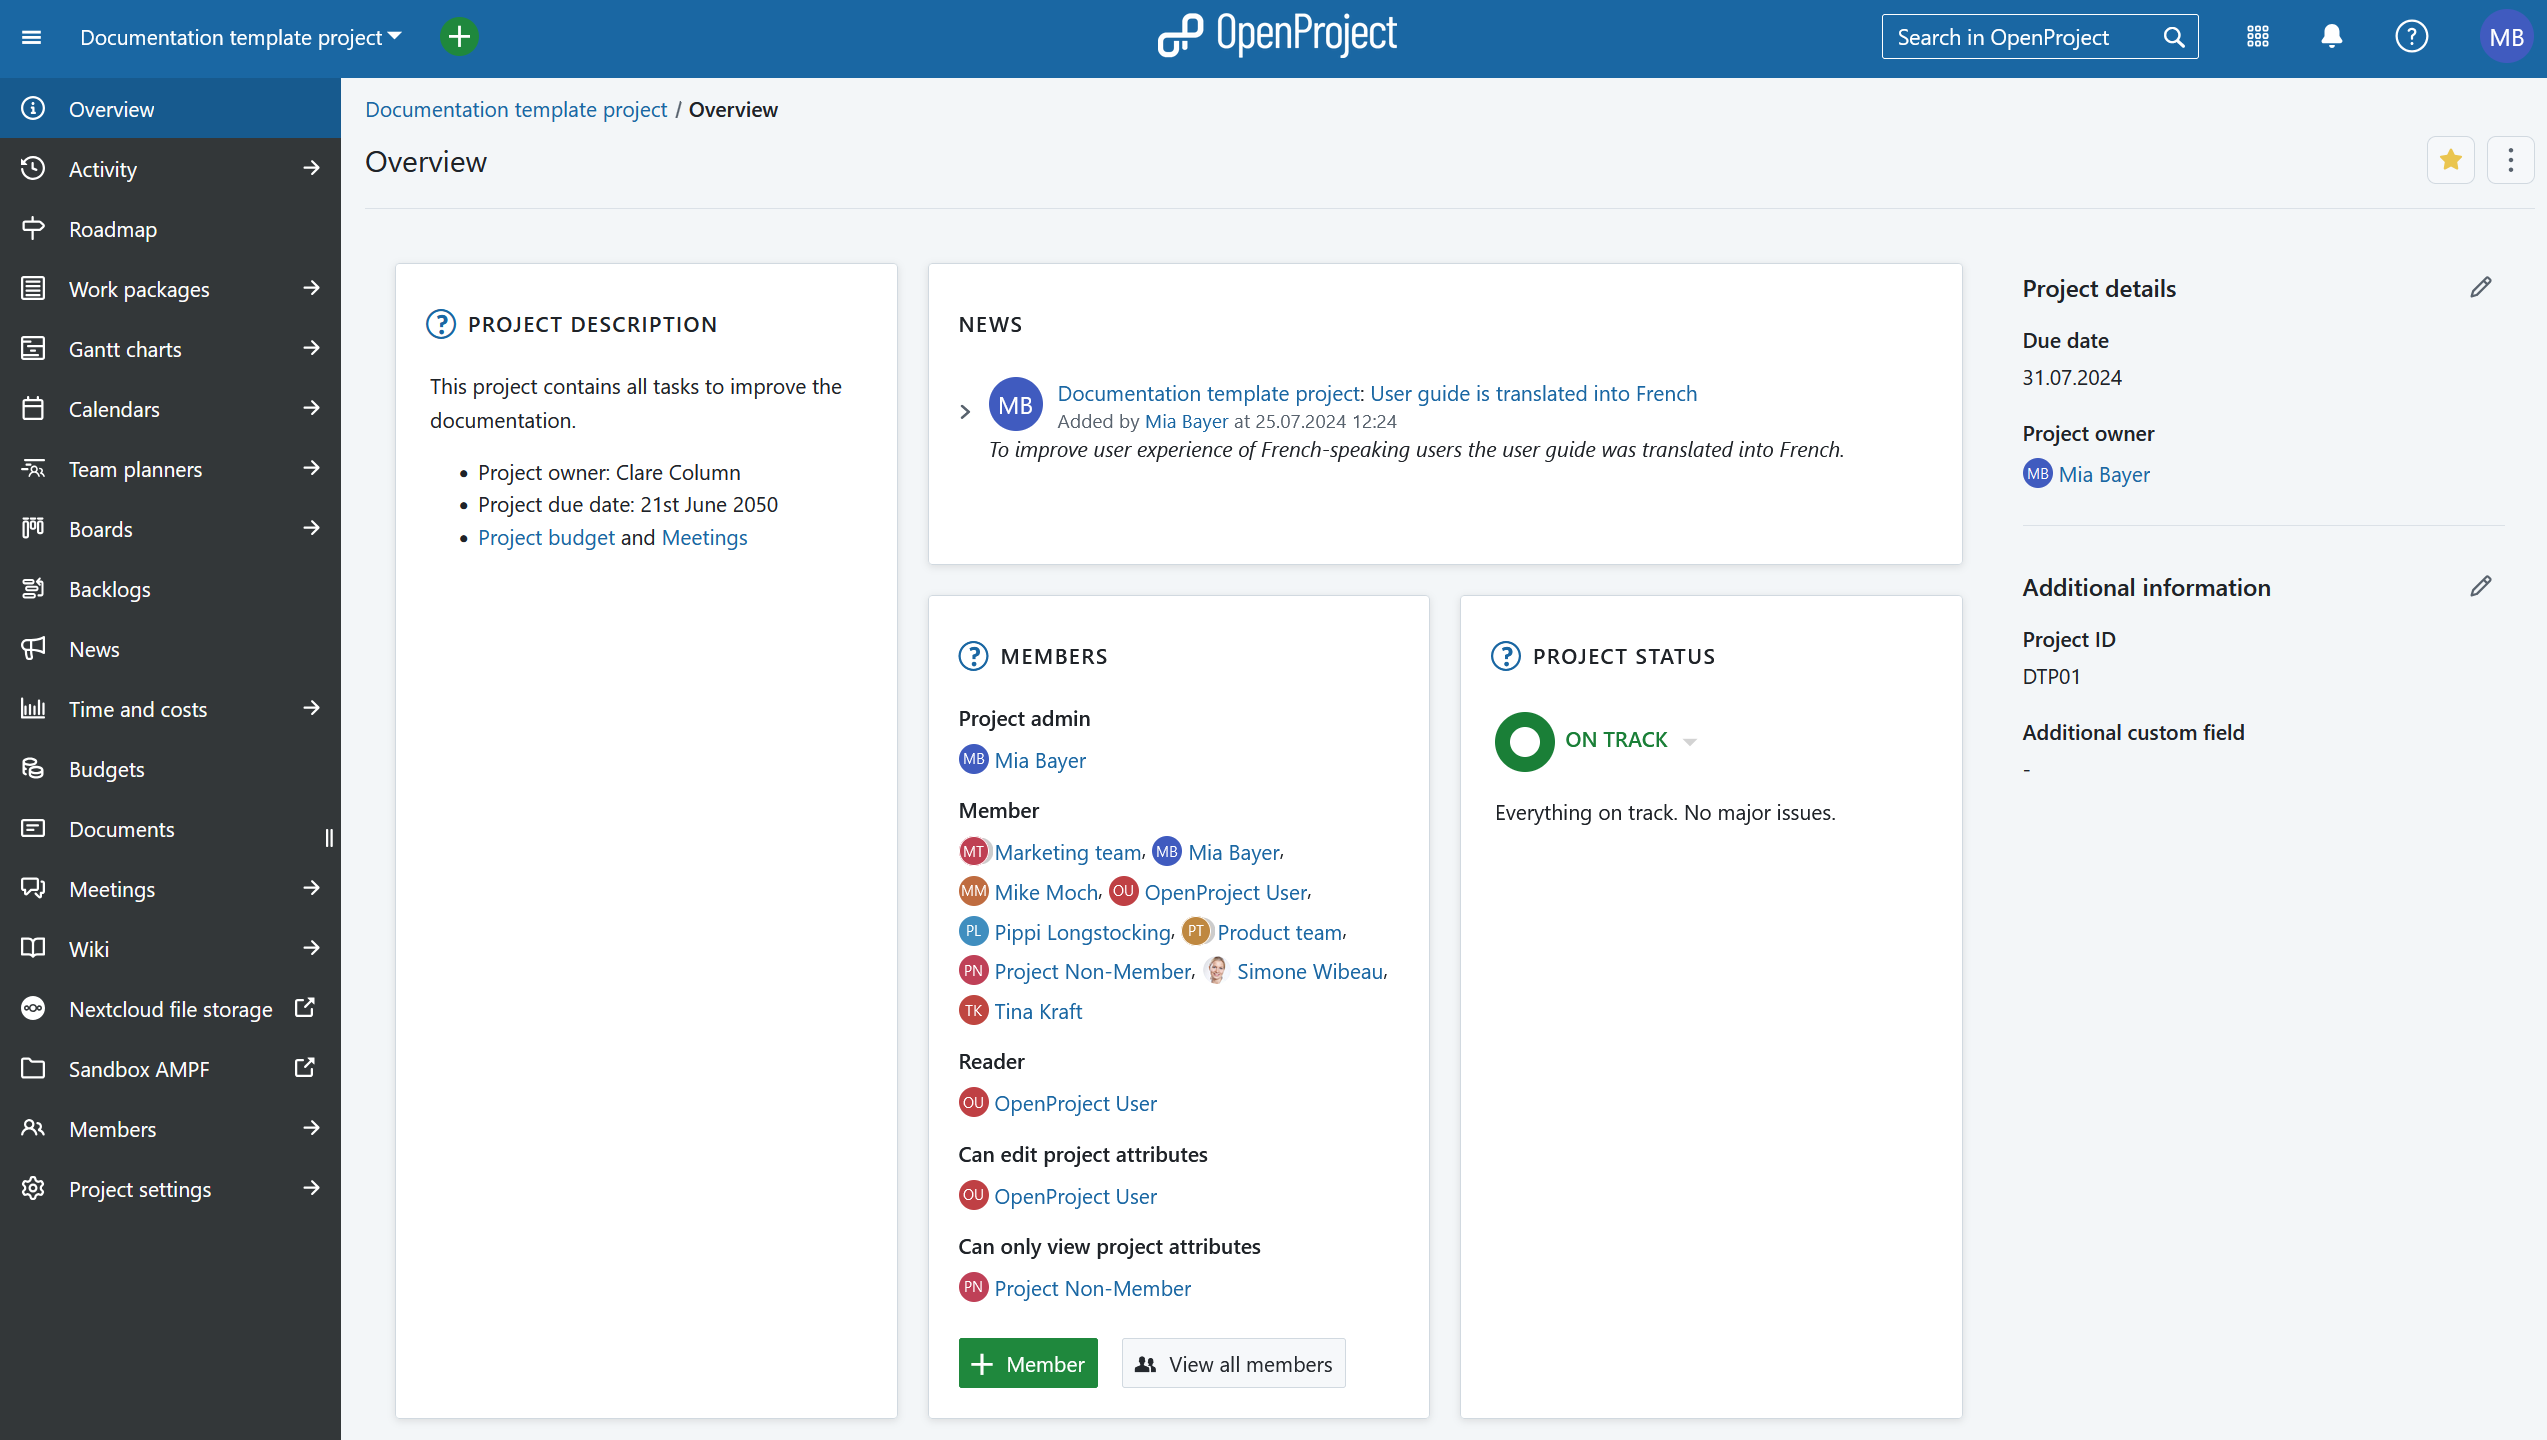
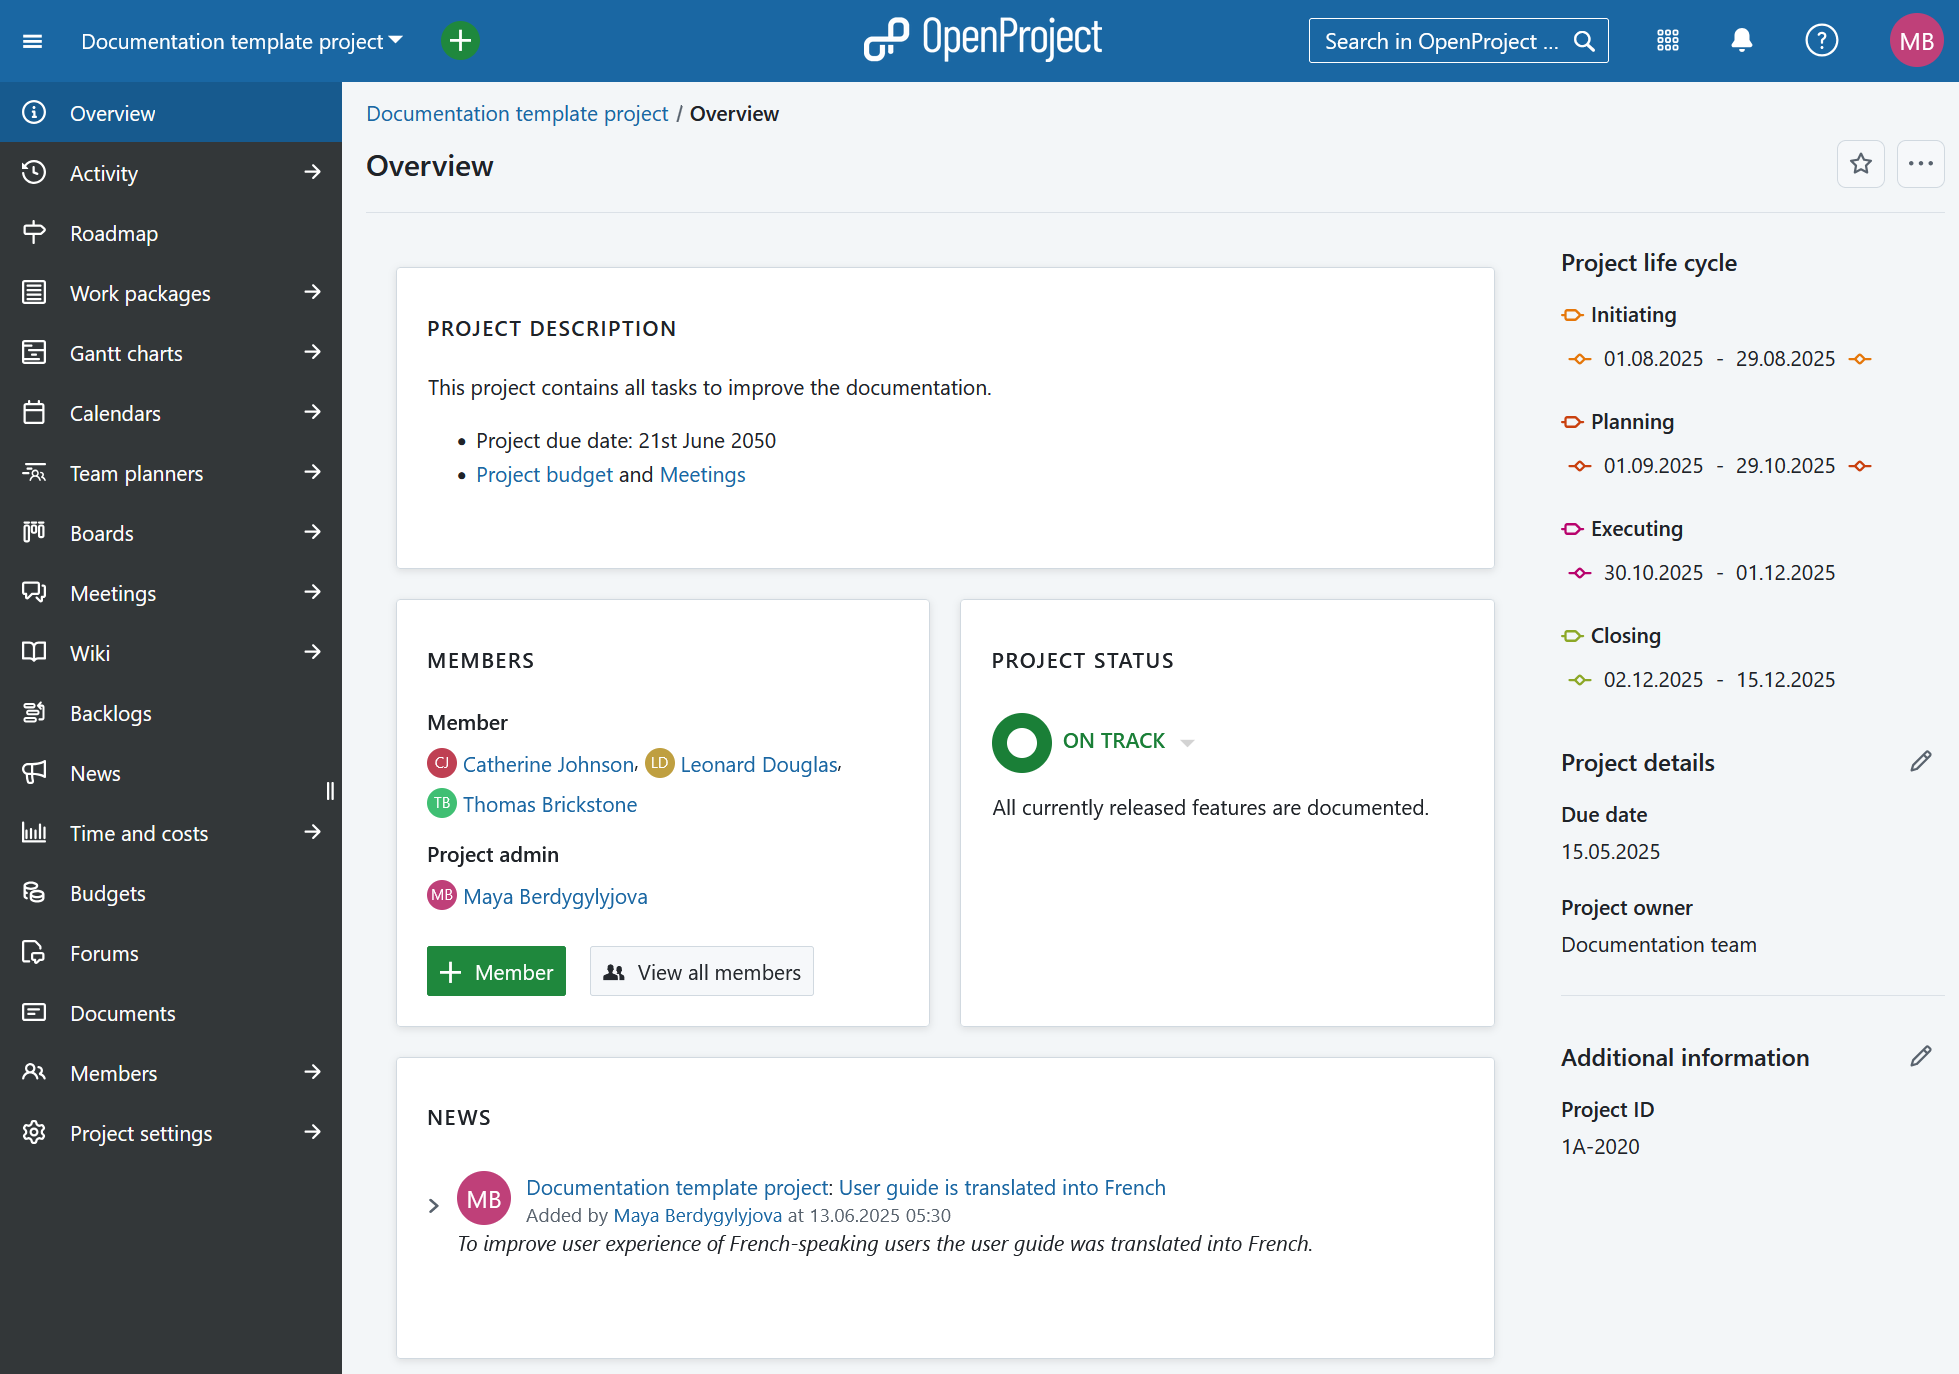
adding project overview part

diff --git a/docs/user-guide/project-overview/README.md b/docs/user-guide/project-overview/README.md
@@ -13,6 +13,7 @@ The **Project overview** page is a dashboard with important information about yo
 | Topic                                                        | Content                                                      |
 | ------------------------------------------------------------ | ------------------------------------------------------------ |
 | [What is the project overview?](#what-is-the-project-overview) | What can I do with the project overview page?                |
+| [Project life cycle](#project-attributes)                    | What is the project life cycle?                              |
 | [Project attributes](#project-attributes)                    | What are project attributes and how can I use them?          |
 | [Mark project as a favorite](#mark-a-project-as-favorite)    | How can I mark a project as favorite?                        |
 | [Archive a project](#archive-a-project)                      | How can I archive a project from the project overview page?  |
@@ -30,11 +31,44 @@ Project information is added to the dashboard as either [project attributes](#pr
 
 Open the project overview by navigating to **Overview** in the project menu on the left.
 
-![project_overview](openproject_user_guide_project_overview.png)
+![Project overview page for a specific project in OpenProject](openproject_user_guide_project_overview.png)
 
 ## Project life cycle 
 
-add 
+**Project life cycle** is an overview of project phases and phase gates, which offers a clear view of where each project stands within its defined timeline. 
+
+Project phases are managed in system administration and can be enabled or disabled under project settings for every project. 
+
+On each project's **overview page**, you can find a section called **project life cycle**. This section appears in the side panel above the **project attributes** and shows the dates configured for each phase and gate of the current project. 
+
+> [!TIP]
+>
+> If all phases and gates are disabled for a project, the project lifecycle section is hidden from the overview page.
+
+![Project life cycle phases displayed on a project overview page in OpenProject](openproject_user_guide_project_overview_project_life_cycle.png)
+
+### Edit project phases
+
+For each of the active project phases, you can defined a date range. To set or manage the date range click on that date range (it will be empty initially)and set the date with a OpenProject date picker. 
+
+> [!NOTE]
+>
+> Keep in mind that you require certain permissions to to edit the date range for project phases.
+
+![Edit date range for project phase on a project overview page in OpenProject](openproject_user_guide_project_overview_project_life_cycle_edit_date_range.png)
+
+When modifying the dates of project phases, keep the following in mind:
+
+- A phase must have either both a start and end date or none at all. You cannot set only one of the two.
+- The start date must be before or equal to the end date.
+- The shortest possible phase duration is one day (start and end date can be the same).
+- There is no maximum duration for a phase.
+- Gaps between phases and gates are allowed.
+- Phases cannot overlap with one another.
+- Gates can share the same date as the start or end of a phase, but cannot be set to a date that falls within a phase’s date range.
+- No two gates can have the same date.
+- The dates you assign must follow the order defined for phases and gates in the system administration. For example, the **initiating** phase must always occur before **closing**.
+- Dates in child projects are not restricted by the lifecycle dates in the parent project.
 
 ## Project attributes
 
